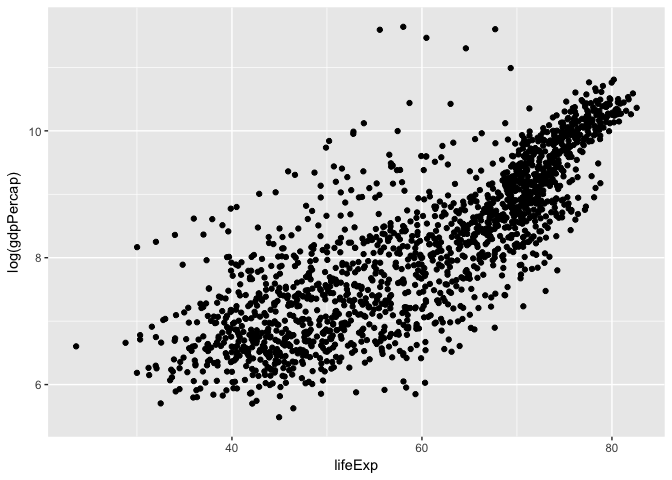
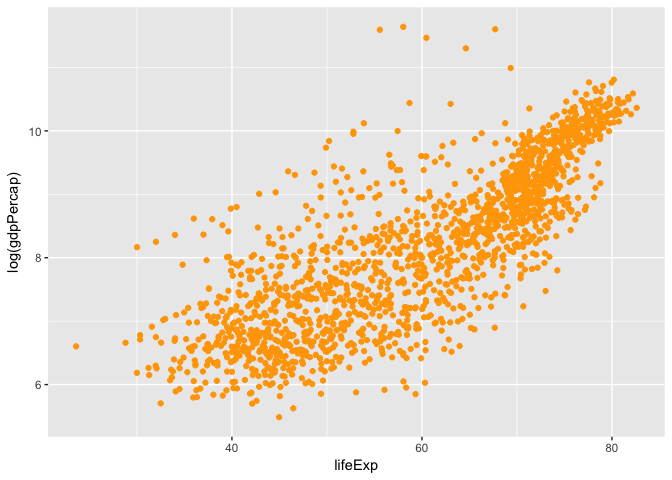
Histograms, boxplots, violin plots

diff --git a/cm006/cm006-exercise.md b/cm006/cm006-exercise.md
@@ -59,7 +59,7 @@ Notice the "metaprogramming" again!
     -   Note: `ggplot2` does some data wrangling and computations itself! We don't always have to modify the data frame.
 
 ``` r
-ggplot(gapminder,aes(x=lifeExp,y=log(gdpPercap)))+geom_point()
+ggplot(gapminder,aes(x=lifeExp,y=log(gdpPercap)))+geom_point(color='orange')
 ```
 
 ![](cm006-exercise_files/figure-markdown_github/unnamed-chunk-5-1.png)
@@ -68,7 +68,7 @@ ggplot(gapminder,aes(x=lifeExp,y=log(gdpPercap)))+geom_point()
 
 ``` r
 ggplot(gapminder,aes(lifeExp,gdpPercap))+
-  geom_point()+
+  geom_point(color='purple')+
   scale_y_log10()
 ```
 
@@ -78,7 +78,7 @@ ggplot(gapminder,aes(lifeExp,gdpPercap))+
 
 ``` r
 ggplot(gapminder)+
-  geom_point(aes(lifeExp,gdpPercap))+
+  geom_point(aes(lifeExp,gdpPercap),color='green')+
   scale_y_log10()
 ```
 
@@ -101,18 +101,42 @@ Let's build a histogram of life expectancy.
 | Grammar Component     | Specification |
 |-----------------------|---------------|
 | **data**              | `gapminder`   |
-| **aesthetic mapping** |               |
-| **geometric object**  |               |
-| scale                 |               |
-| statistical transform |               |
+| **aesthetic mapping** | `x`           |
+| **geometric object**  | histogram     |
+| scale                 | linear        |
+| statistical transform | none          |
 
 1.  Build the histogram of life expectancy.
 
-2.  Change the number of bins to 50.
+``` r
+ggplot(gapminder,aes(x=lifeExp))+
+  geom_histogram(fill='blue')
+```
 
-3.  Instead of a histogram, let's create a kernel density plot.
+    ## `stat_bin()` using `bins = 30`. Pick better value with `binwidth`.
 
-4.  Optional: git stage and commit
+![](cm006-exercise_files/figure-markdown_github/unnamed-chunk-8-1.png)
+
+1.  Change the number of bins to 50.
+
+``` r
+ggplot(gapminder,aes(x=lifeExp,y=..density..))+
+  geom_histogram(fill='green',bins=50)
+```
+
+![](cm006-exercise_files/figure-markdown_github/unnamed-chunk-9-1.png)
+
+1.  Instead of a histogram, let's create a kernel density plot.
+
+``` r
+ggplot(gapminder,aes(x=lifeExp,y=..density..))+
+  geom_histogram(fill='orange',bins=50)+
+  geom_density(bw=1.5)
+```
+
+![](cm006-exercise_files/figure-markdown_github/unnamed-chunk-10-1.png)
+
+1.  Optional: git stage and commit
 
 **Uses of a histogram**: Explore the distribution of a single numeric variable.
 
@@ -123,21 +147,39 @@ Let's make *box plots* of population for each continent. Note: y-axis is much be
 
 1.  Fill out the grammar components below. Again, bold *must* be specified to make a `ggplot2` plot.
 
-| Grammar Component     | Specification |
-|-----------------------|---------------|
-| **data**              | `gapminder`   |
-| **aesthetic mapping** |               |
-| **geometric object**  |               |
-| scale                 |               |
-| statistical transform |               |
+| Grammar Component     | Specification    |
+|-----------------------|------------------|
+| **data**              | `gapminder`      |
+| **aesthetic mapping** | `x` and `y`      |
+| **geometric object**  | boxplot          |
+| scale                 | log-y            |
+| statistical transform | 5-number summary |
 
 1.  Initiate the `ggplot` call, with the log y scale, and store it in the variable `a`. Print out `a`.
 
-2.  Add the boxplot geom to `a`.
+``` r
+a = ggplot(gapminder,aes(x=continent,y=pop,fill=continent))+
+  scale_y_log10()
+```
 
-3.  A violin plot is a kernel density on its side, made symmetric. Add that geom to `a`.
+1.  Add the boxplot geom to `a`.
+
+``` r
+a+geom_boxplot()
+```
+
+![](cm006-exercise_files/figure-markdown_github/unnamed-chunk-12-1.png)
+
+1.  A violin plot is a kernel density on its side, made symmetric. Add that geom to `a`.
     -   What's better here, boxplots or violin plots? Why?
-4.  Optional: git stage and commit
+
+``` r
+a+geom_violin()
+```
+
+![](cm006-exercise_files/figure-markdown_github/unnamed-chunk-13-1.png)
+
+1.  Optional: git stage and commit
 
 **Use of boxplot**: Visualize 1-dimensional distributions (of a single numeric variable).
 
